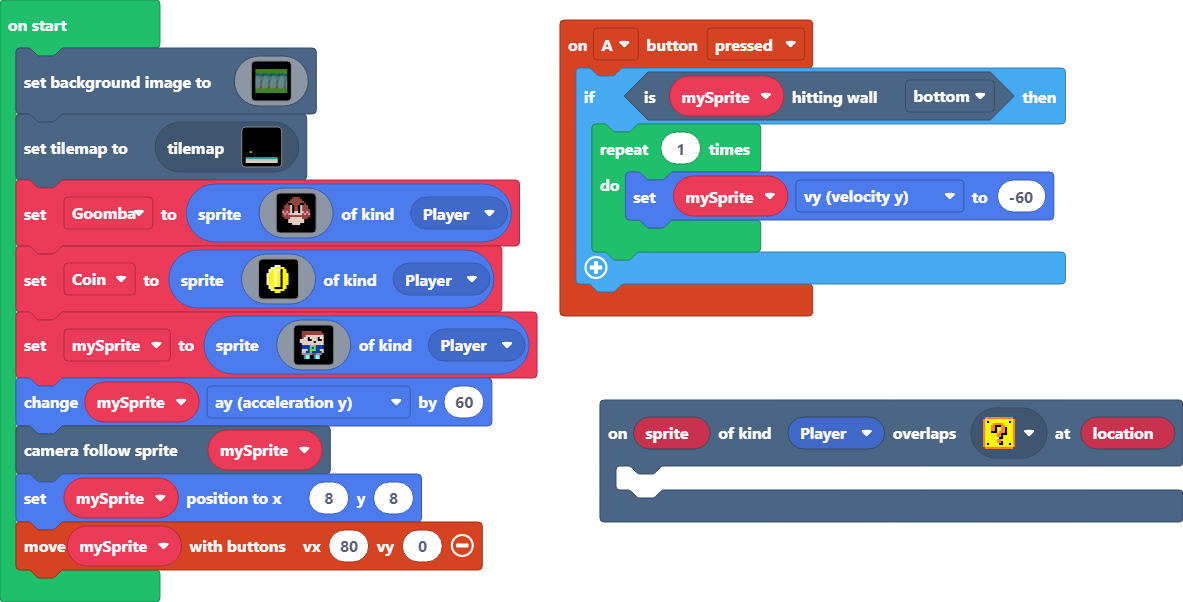
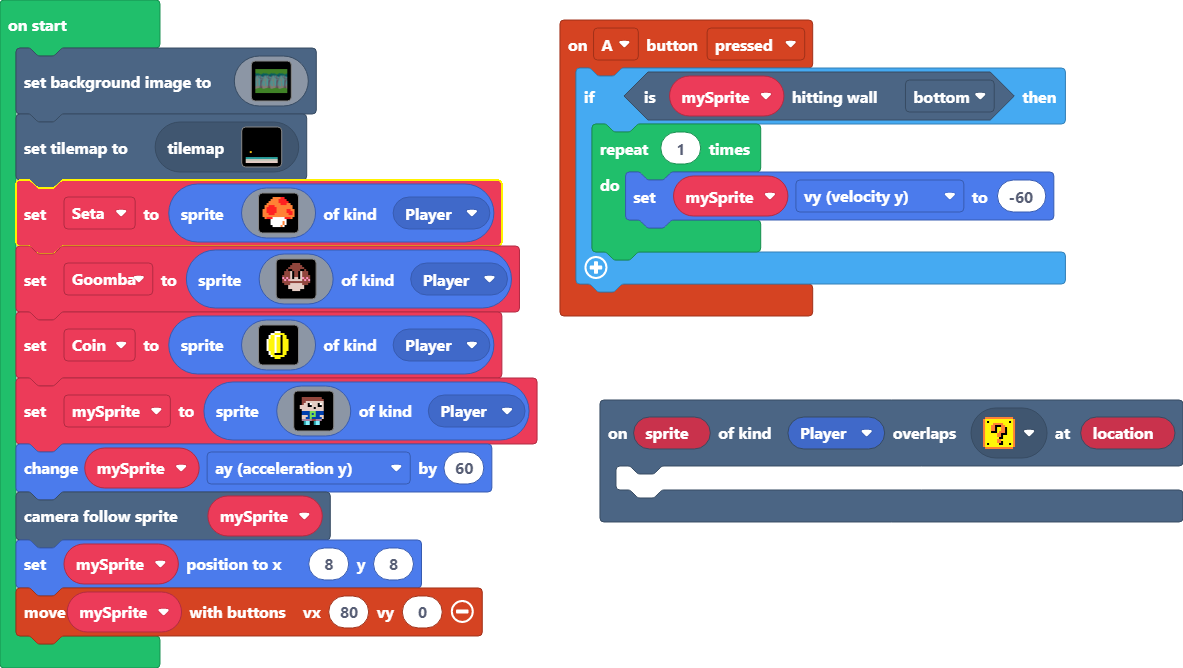
Update main.blocks, main.ts

diff --git a/main.ts b/main.ts
@@ -132,6 +132,24 @@ scene.setBackgroundImage(img`
     7777777777777777777777777777777777777777777777777777777777777777777777777777777777777777777777777777777777777777777777777777777777777777777777777777777777777777
     `)
 tiles.setCurrentTilemap(tilemap`level3`)
+let Seta = sprites.create(img`
+    . . . . . 4 4 4 4 2 2 . . . . . 
+    . . . . 4 4 4 4 2 2 2 2 . . . . 
+    . . . 4 4 4 4 4 2 2 2 2 2 . . . 
+    . . 4 4 4 4 4 4 4 2 2 2 4 4 . . 
+    . 4 4 2 2 2 4 4 4 4 4 4 4 4 4 . 
+    . 4 2 2 2 2 2 4 4 4 4 4 4 4 4 . 
+    4 4 2 2 2 2 2 4 4 4 4 4 2 2 4 4 
+    4 4 2 2 2 2 2 4 4 4 4 4 2 2 2 4 
+    4 4 4 2 2 2 4 4 4 4 4 4 4 2 2 4 
+    4 4 4 4 4 4 4 4 4 4 4 4 4 4 4 4 
+    . 4 2 2 2 1 1 1 1 1 1 2 2 2 4 . 
+    . . . . 1 1 1 1 1 1 1 1 . . . . 
+    . . . . 1 1 1 1 1 1 4 1 . . . . 
+    . . . . 1 1 1 1 1 1 4 1 . . . . 
+    . . . . . 1 1 1 1 4 1 . . . . . 
+    . . . . . . . . . . . . . . . . 
+    `, SpriteKind.Player)
 let Goomba = sprites.create(img`
     . . . . . . e e e e . . . . . . 
     . . . . . e e e e e e . . . . . 
